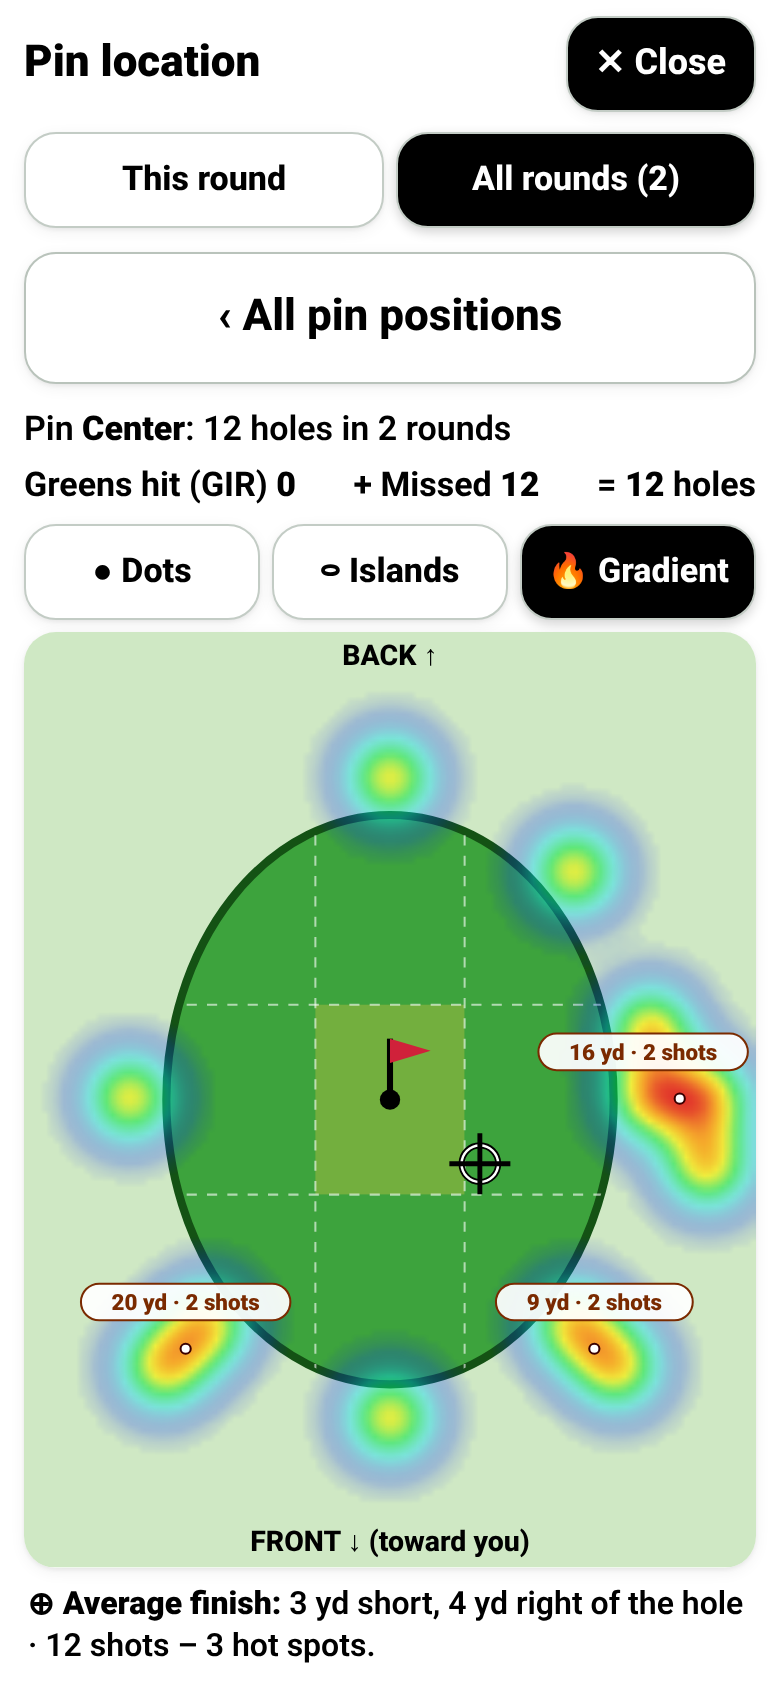
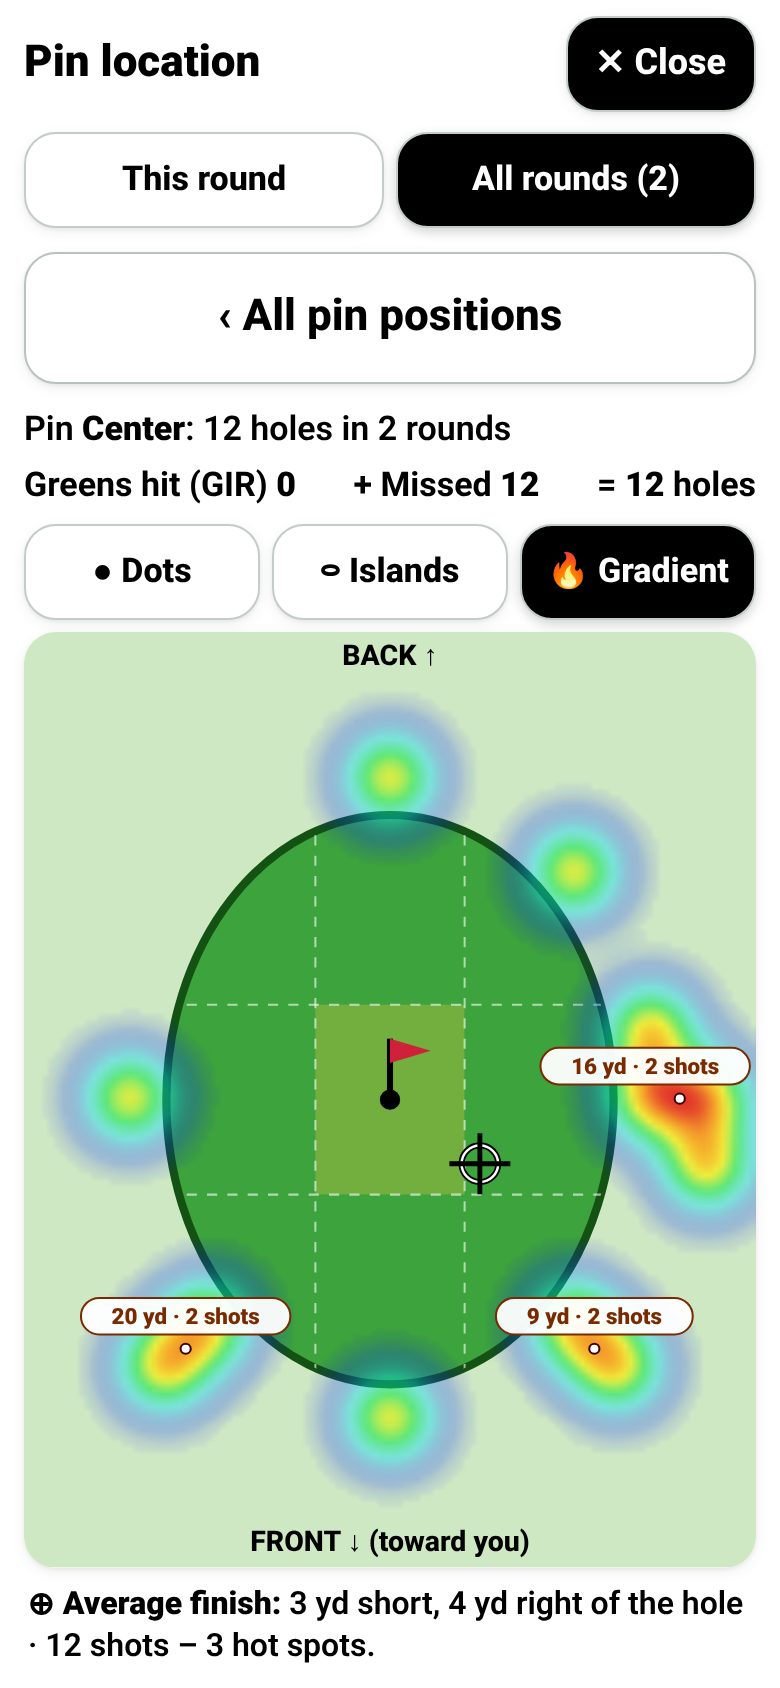
v57: merged island shapes, tag leader lines, Cluster slider

Changed region(s): [[0.6769, 0.5853, 0.9846, 0.6469], [0.0923, 0.7393, 0.3692, 0.8009], [0.6154, 0.7393, 0.8923, 0.8009]]

diff --git a/app.js b/app.js
@@ -1163,9 +1163,11 @@
       p.rx = L ? d * dx / L : 0; p.ry = L ? d * dy / L : 0; p.big = !yd && p.u === 'yd'; });
     return yd;
   }
-  function heatIslandsReal(pts, yd) {
+  function heatClus() { var v = +(view.clus || localStorage.getItem('golfsg.heatclus.v1') || 3); return Math.max(1, Math.min(10, v || 3)); }
+  function heatIslandsReal(pts, yd, L) {
+    L = L || 3;
     var id = pts.map(function (_, i) { return i; }), find = function (i) { while (id[i] !== i) i = id[i] = id[id[i]]; return i; };
-    var link = function (a, b) { return yd ? 3 : (a.big || b.big ? 9 : 3); }, gap = yd ? 2 : 2;
+    var link = function (a, b) { return yd ? L : (a.big || b.big ? 3 * L : L); }, gap = L * 2 / 3;
     for (var i = 0; i < pts.length; i++) for (var j = i + 1; j < pts.length; j++) if (Math.hypot(pts[i].rx - pts[j].rx, pts[i].ry - pts[j].ry) <= link(pts[i], pts[j])) id[find(i)] = find(j);
     var groups = {}; pts.forEach(function (p, i) { (groups[find(i)] = groups[find(i)] || []).push(p); });
     var G = Object.keys(groups).map(function (k) { return groups[k]; });
@@ -1185,13 +1187,13 @@
     for (var k = 1; k < n; k++) { var bi = -1; for (var i = 0; i < n; i++) if (!used[i] && (bi < 0 || best[i][0] < best[bi][0])) bi = i;
       used[bi] = true; edges.push([best[bi][1], bi]); for (var j = 0; j < n; j++) if (!used[j]) { var d = Math.hypot(g[j].x - g[bi].x, g[j].y - g[bi].y); if (d < best[j][0]) best[j] = [d, bi]; } }
     var path = g.map(function (p) { return 'M' + f1(p.x) + ' ' + f1(p.y) + 'h0.01'; }).join('') + edges.map(function (e) { return 'M' + f1(g[e[0]].x) + ' ' + f1(g[e[0]].y) + 'L' + f1(g[e[1]].x) + ' ' + f1(g[e[1]].y); }).join('');
-    return '<path class="hedge" d="' + path + '" fill="transparent" stroke="#3a0000" stroke-width="' + f1(2 * R + 2.4) + '" stroke-linecap="round" stroke-linejoin="round"/>' +
-      '<path class="hfill" d="' + path + '" fill="transparent" stroke="' + col + '" stroke-width="' + f1(2 * R) + '" stroke-linecap="round" stroke-linejoin="round"/>';
+    return '<g filter="url(#hgoo)"><path class="hedge" d="' + path + '" fill="transparent" stroke="#3a0000" stroke-width="' + f1(2 * R + 3) + '" stroke-linecap="round" stroke-linejoin="round"/></g>' +
+      '<g filter="url(#hgoo)"><path class="hfill" d="' + path + '" fill="transparent" stroke="' + col + '" stroke-width="' + f1(2 * R) + '" stroke-linecap="round" stroke-linejoin="round"/></g>';
   }
   // Continuous density (Gaussian kernel, sigma 13 px) painted to a canvas and embedded as an image: clear where
   // there are no shots, light -> dark red with density. Hot-spot tags at local density peaks (>= 30% of the max).
-  function heatGradient(svg, pts) {
-    var vb = svg.viewBox.baseVal, W = vb.width, H = vb.height, S = 3, gw = Math.ceil(W / S), gh = Math.ceil(H / S), sig = 16, D = new Float32Array(gw * gh), mx = 0;
+  function heatGradient(svg, pts, CL) {
+    var vb = svg.viewBox.baseVal, W = vb.width, H = vb.height, S = 3, gw = Math.ceil(W / S), gh = Math.ceil(H / S), sig = 6 + 3.4 * (CL || 3), D = new Float32Array(gw * gh), mx = 0;
     for (var y = 0; y < gh; y++) for (var x = 0; x < gw; x++) { var v = 0, px = x * S + S / 2, py = y * S + S / 2;
       for (var i = 0; i < pts.length; i++) { var dx = px - pts[i].x, dy = py - pts[i].y, q = dx * dx + dy * dy; if (q < 9 * sig * sig) v += Math.exp(-q / (2 * sig * sig)); }
       D[y * gw + x] = v; if (v > mx) mx = v; }
@@ -1210,12 +1212,23 @@
     peaks.sort(function (a, b) { return b[2] - a[2]; }); peaks = peaks.slice(0, 6);
     var boxes = [], n = 0;
     peaks.forEach(function (p) { var near = pts.filter(function (q) { return Math.hypot(q.x - p[0], q.y - p[1]) <= 2 * sig; }); if (near.length < 2) return; n++;
-      var t = heatFmt(near) + ' · ' + near.length + ' shots', w = t.length * 6.2 + 10, x0 = Math.max(4, Math.min(W - 4 - w, p[0] - w / 2)), y0 = p[1] - 32;
-      for (var k2 = 0; k2 < 6 && boxes.some(function (b) { return x0 < b[2] && x0 + w > b[0] && y0 < b[3] && y0 + 18 > b[1]; }); k2++) y0 += 22;
-      if (y0 < 4) y0 = p[1] + 14; boxes.push([x0, y0, x0 + w, y0 + 18]);
-      o += '<g class="hotspot" data-n="' + near.length + '"><circle cx="' + f1(p[0]) + '" cy="' + f1(p[1]) + '" r="2.5" fill="#fff" stroke="#3a0000"/><rect x="' + f1(x0) + '" y="' + f1(y0) + '" width="' + f1(w) + '" height="18" rx="9" fill="#fff" fill-opacity=".93" stroke="#7a2a00"/>' +
-        '<text x="' + f1(x0 + w / 2) + '" y="' + f1(y0 + 13) + '" text-anchor="middle" font-size="11" font-weight="900" fill="#7a2a00">' + esc(t) + '</text></g>'; });
+      o += heatTag('hotspot', near.length, p[0], p[1], heatFmt(near) + ' · ' + near.length + ' shots', boxes, W, H); });
     return { svg: o, peaks: n };
+  }
+  // Tag placement: try spots around the anchor (nearest first); never over another tag; if the tag ends up
+  // away from its anchor, a thin leader line joins them.
+  function heatTag(cls, n, ax, ay, t, boxes, W, H) {
+    var w = t.length * 6.2 + 10, hh = 18, c = [], best = null;
+    [0, 1, 2, 3, 4].forEach(function (ring) { var d = 16 + ring * 22;
+      [[0, -1], [0, 1], [1, 0], [-1, 0], [1, -1], [-1, -1], [1, 1], [-1, 1]].forEach(function (v) { c.push([ax + v[0] * (d + (v[0] ? w / 2 : 0)) - w / 2, ay + v[1] * d - hh / 2]); }); });
+    for (var i = 0; i < c.length; i++) { var x = Math.max(3, Math.min(W - 3 - w, c[i][0])), y = Math.max(3, Math.min(H - 3 - hh, c[i][1]));
+      if (!boxes.some(function (b) { return x < b[2] + 2 && x + w > b[0] - 2 && y < b[3] + 2 && y + hh > b[1] - 2; })) { best = [x, y]; break; } }
+    if (!best) best = [Math.max(3, Math.min(W - 3 - w, ax - w / 2)), Math.max(3, ay - 30)];
+    var x0 = best[0], y0 = best[1]; boxes.push([x0, y0, x0 + w, y0 + hh]);
+    var nx = Math.max(x0, Math.min(x0 + w, ax)), ny = Math.max(y0, Math.min(y0 + hh, ay)), far = Math.hypot(nx - ax, ny - ay) > 18;
+    return '<g class="' + cls + '" data-n="' + n + '"' + (far ? ' data-leader="1"' : '') + '>' + (far ? '<line class="leader" x1="' + f1(ax) + '" y1="' + f1(ay) + '" x2="' + f1(nx) + '" y2="' + f1(ny) + '" stroke="#3a0000" stroke-width="1.2"/>' : '') +
+      '<circle cx="' + f1(ax) + '" cy="' + f1(ay) + '" r="2.5" fill="#fff" stroke="#3a0000"/><rect x="' + f1(x0) + '" y="' + f1(y0) + '" width="' + f1(w) + '" height="' + hh + '" rx="9" fill="#fff" fill-opacity=".95" stroke="#7a2a00"/>' +
+      '<text x="' + f1(x0 + w / 2) + '" y="' + f1(y0 + 13) + '" text-anchor="middle" font-size="11" font-weight="900" fill="#7a2a00">' + esc(t) + '</text></g>';
   }
   function heatIslands(pts, link) {
     var id = pts.map(function (_, i) { return i; }), find = function (i) { while (id[i] !== i) i = id[i] = id[id[i]]; return i; };
@@ -1240,28 +1253,30 @@
     tg.innerHTML = [['dots', '● Dots'], ['isl', '⬭ Islands'], ['grad', '🔥 Gradient']].map(function (b) { return '<button data-act="heat" data-v="' + b[0] + '" class="' + (mode === b[0] ? 'sel' : '') + '" aria-pressed="' + (mode === b[0]) + '"' + (pts.length || b[0] === 'dots' ? '' : ' disabled') + '>' + b[1] + '</button>'; }).join('');
     var anc = svg; while (anc.parentNode && anc.parentNode !== mv) anc = anc.parentNode;
     anc.parentNode.insertBefore(tg, anc);
+    if (on && pts.length) { var sl = document.createElement('div'); sl.className = 'heatclus'; sl.id = 'heatclus';
+      var CL = heatClus(), U0 = pts.every(function (p) { return p.u === 'yd'; }) ? 'yd' : 'ft';
+      sl.innerHTML = '<label for="clusr"><b>Cluster</b> <span>tight</span></label><input type="range" id="clusr" min="1" max="10" step="1" value="' + CL + '" aria-label="Cluster distance"><span>loose</span> <b id="clusv">' + CL + ' ' + U0 + '</b>';
+      anc.parentNode.insertBefore(sl, anc.nextSibling); }
     if (!on || !pts.length) return;
     svg.classList.add('heat');
-    var h = '';
+    var h = '<defs><filter id="hgoo" x="-30%" y="-30%" width="160%" height="160%"><feGaussianBlur in="SourceGraphic" stdDeviation="4.5" result="b"/><feColorMatrix in="b" mode="matrix" values="1 0 0 0 0  0 1 0 0 0  0 0 1 0 0  0 0 0 22 -9"/></filter></defs>';
     // blobs are drawn per island below (after islands are known)
-    var isl = heatIslandsReal(pts, heatReal(pts, C)), boxes = [], lone = 0, tagged = 0;
-    if (mode === 'grad') { var GR = heatGradient(svg, pts); h += GR.svg; isl = []; tagged = GR.peaks; }
+    var VW = svg.viewBox.baseVal.width, VH = svg.viewBox.baseVal.height, CL = heatClus();
+    var isl = heatIslandsReal(pts, heatReal(pts, C), CL), boxes = [], lone = 0, tagged = 0;
+    if (mode === 'grad') { var GR = heatGradient(svg, pts, CL); h += GR.svg; isl = []; tagged = GR.peaks; }
     else {
     // one red ramp, light -> dark by the island's share of all shots; crisp thin border around each island (union of discs)
     var ramp = function (t) { var a = [253, 224, 218], b = [139, 0, 0]; return 'rgb(' + a.map(function (v, i) { return Math.round(v + (b[i] - v) * t); }).join(',') + ')'; };
     var maxShare = Math.max.apply(null, isl.map(function (g) { return g.length; })) / pts.length;
     isl.forEach(function (g) { var share = g.length / pts.length, t = maxShare > 0 ? Math.min(1, 0.15 + 0.85 * share / maxShare) : 1, col = ramp(t);
       h += '<g class="hisland" data-n="' + g.length + '" data-share="' + share.toFixed(3) + '" data-col="' + col + '">' +
-        islandShape(g, col) + g.map(function (p) { return '<circle class="hblob" cx="' + f1(p.x) + '" cy="' + f1(p.y) + '" r="1.6" fill="#3a0000" fill-opacity=".55"/>'; }).join('') + '</g>'; });
+        islandShape(g, col) + g.map(function (p) { return '<circle class="hblob" cx="' + f1(p.x) + '" cy="' + f1(p.y) + '" r="1.6" fill="#3a0000" fill-opacity="0"/>'; }).join('') + '</g>'; });
     lone = isl.filter(function (g) { return g.length === 1; }).length; tagged = isl.length - lone;
     isl.forEach(function (g, i) {
       if (g.length === 1 && tagged) { h += '<g class="island lone" data-n="1"></g>'; return; }
-      var mx = g.reduce(function (a, p) { return a + p.x; }, 0) / g.length, top = g.reduce(function (a, p) { return a + p.y; }, 0) / g.length + 8;
-      var t = heatFmt(g) + ' · ' + g.length + (g.length === 1 ? ' shot' : ' shots'), w = t.length * 6.2 + 10, x = Math.max(4, Math.min(356 - w, mx - w / 2)), y = top - 34;
-      for (var k = 0; k < 6 && boxes.some(function (b) { return x < b[2] && x + w > b[0] && y < b[3] && y + 18 > b[1]; }); k++) y += 22;
-      if (y < 4) y = top + 28; boxes.push([x, y, x + w, y + 18]);
-      h += '<g class="island" data-n="' + g.length + '"><rect x="' + f1(x) + '" y="' + f1(y) + '" width="' + f1(w) + '" height="18" rx="9" fill="#fff" fill-opacity=".93" stroke="#7a2a00"/>' +
-        '<text x="' + f1(x + w / 2) + '" y="' + f1(y + 13) + '" text-anchor="middle" font-size="11" font-weight="900" fill="#7a2a00">' + esc(t) + '</text></g>';
+      var mx = g.reduce(function (a, p) { return a + p.x; }, 0) / g.length, my = g.reduce(function (a, p) { return a + p.y; }, 0) / g.length;
+      var cp = g.reduce(function (b, p) { return Math.hypot(p.x - mx, p.y - my) < Math.hypot(b.x - mx, b.y - my) ? p : b; }, g[0]); // anchor on a real shot of the island
+      h += heatTag('island', g.length, cp.x, cp.y, heatFmt(g) + ' · ' + g.length + (g.length === 1 ? ' shot' : ' shots'), boxes, VW, VH);
     });
     }
     // average finish (all plotted shots): pixel mean for the marker, real distances for the words
@@ -1410,9 +1425,9 @@
   }
   function applyCompare() {
     var ov = document.getElementById('cmpovmap'), src = document.getElementById('cmpbestsrc'); if (!ov || !src) return;
-    var kind = ov.getAttribute('data-kind'), C = heatCenter(ov, kind), wp = cmpPoints(ov), bp = cmpPoints(src), h = '';
+    var kind = ov.getAttribute('data-kind'), C = heatCenter(ov, kind), wp = cmpPoints(ov), bp = cmpPoints(src), h = '<defs><filter id="hgoo" x="-30%" y="-30%" width="160%" height="160%"><feGaussianBlur in="SourceGraphic" stdDeviation="4.5" result="b"/><feColorMatrix in="b" mode="matrix" values="1 0 0 0 0  0 1 0 0 0  0 0 1 0 0  0 0 0 22 -9"/></filter></defs>';
     ov.classList.add('heat');
-    if (wp.length) { var isl = heatIslandsReal(wp, heatReal(wp, C)), mx = Math.max.apply(null, isl.map(function (g) { return g.length; }));
+    if (wp.length) { var isl = heatIslandsReal(wp, heatReal(wp, C), heatClus()), mx = Math.max.apply(null, isl.map(function (g) { return g.length; }));
       isl.forEach(function (g) { var t = Math.min(1, 0.15 + 0.85 * g.length / mx), a = [253, 224, 218], b = [139, 0, 0], col = 'rgb(' + a.map(function (v, i) { return Math.round(v + (b[i] - v) * t); }).join(',') + ')';
         h += '<g class="hisland" data-n="' + g.length + '" opacity=".6">' + islandShape(g, col) + '</g>'; }); }
     bp.forEach(function (p) { h += '<circle class="bestring" cx="' + f1(p.x) + '" cy="' + f1(p.y) + '" r="8" fill="none" stroke="#000" stroke-width="2.6"/>'; });
@@ -2107,6 +2122,12 @@
     else if (f === 'layup') { if (t.checked) row.layup = true; else delete row.layup; save(); refreshInfo(h); }
   });
 
+  document.addEventListener('input', function (ev) {
+    if (!ev.target || ev.target.id !== 'clusr') return;
+    view.clus = +ev.target.value; try { localStorage.setItem('golfsg.heatclus.v1', String(view.clus)); } catch (e) {}
+    var mv = document.getElementById('mapview'), st = mv ? mv.scrollTop : 0; render();
+    var mv2 = document.getElementById('mapview'); if (mv2) mv2.scrollTop = st; var r2 = document.getElementById('clusr'); if (r2) r2.focus();
+  });
   // Distance typing: update data without re-rendering (keeps the keyboard up)
   document.addEventListener('input', function (ev) {
     var t = ev.target; if (!t.hasAttribute || !t.hasAttribute('data-row')) return;

diff --git a/tests/heat-focused.js b/tests/heat-focused.js
@@ -43,7 +43,20 @@ const BASE = process.env.BASE_URL || 'http://127.0.0.1:8774/', OUT = '/workspace
     assert.ok(await page.$('#heatnote .ramp'), 'ramp legend');
     assert.ok(st.avg && /Average (finish|putt start)/.test(st.sum), m + ' centroid');
     console.log(m, st.blobs, 'shots', st.isl.length, 'islands', st.sum);
-    await page.locator('#heattog').scrollIntoViewIfNeeded(); await page.screenshot({ path: OUT + 'heatmap-' + m + '.png' });
+    await page.locator('#heattog').scrollIntoViewIfNeeded(); await page.screenshot({ path: OUT + 'heatmap-islands-' + m + '.png' });
+    // tags never overlap
+    const bx = await page.$$eval('#mapview .island rect, #mapview .hotspot rect', r => r.map(e => [+e.getAttribute('x'), +e.getAttribute('y'), +e.getAttribute('width'), +e.getAttribute('height')]));
+    bx.forEach((a, i) => bx.forEach((b, j) => { if (i < j) assert.ok(!(a[0] < b[0] + b[2] && a[0] + a[2] > b[0] && a[1] < b[1] + b[3] && a[1] + a[3] > b[1]), m + ' tags overlap'); }));
+    // cluster slider: looser -> fewer (or equal) islands; remembered
+    if (m === 'putt') {
+      const cnt = () => page.$$eval('#mapview .hisland', g => g.length);
+      const n3 = await cnt(); await page.$eval('#clusr', e => { e.value = '8'; e.dispatchEvent(new Event('input', { bubbles: true })); });
+      const n8 = await cnt(); assert.ok(n8 < n3, 'looser slider merges islands ' + n3 + ' -> ' + n8);
+      assert.strictEqual(await page.evaluate(() => localStorage.getItem('golfsg.heatclus.v1')), '8'); assert.match(await page.textContent('#clusv'), /^8 ft/);
+      await page.locator('#heattog').scrollIntoViewIfNeeded(); await page.screenshot({ path: OUT + 'heatmap-islands-putt-loose.png' });
+      await page.click('[data-act="heat"][data-v="grad"]'); await page.screenshot({ path: OUT + 'heatmap-gradient-putt-loose.png' });
+      await page.$eval('#clusr', e => { e.value = '3'; e.dispatchEvent(new Event('input', { bubbles: true })); }); await page.click('[data-act="heat"][data-v="isl"]');
+    }
     await page.click('[data-act="heat"][data-v="dots"]'); assert.strictEqual(await page.$('#mapview svg.heat'), null, m + ' toggles back to dots');
     if (m === 'gir') { await page.locator('#heattog').scrollIntoViewIfNeeded(); await page.screenshot({ path: OUT + 'heatmap-gir-dots.png' }); }
     await page.click('[data-act="heat"][data-v="isl"]'); assert.ok(await page.$('#mapview svg.heat'));

diff --git a/styles.css b/styles.css
@@ -385,3 +385,6 @@ svg.heat path[fill="none"] { opacity: .12; }
 .gaptable td.gap { font-size: 16px; }
 #cmplegend .ramp, .heatnote .ramp { display: inline-block; width: 60px; height: 12px; border-radius: 6px; vertical-align: middle; border: 1px solid #3a0000; background: linear-gradient(90deg, rgb(253,224,218), rgb(139,0,0)); }
 .heatnote .ramp.rainbow { border-color: #333; background: linear-gradient(90deg, rgba(0,0,255,.5), #00dcff, #00e63c, #fff000, #ff8c00, #e60000); }
+.heatclus { display: flex; align-items: center; gap: 8px; margin: 8px 2px; font-size: 14px; }
+.heatclus label { display: flex; gap: 6px; align-items: center; }
+.heatclus input[type=range] { flex: 1; min-height: 44px; accent-color: #8b0000; }

diff --git a/sw.js b/sw.js
@@ -1,5 +1,5 @@
 // Offline support: cache the whole app on install, serve cache-first.
-const CACHE = 'golf-sg-v56';
+const CACHE = 'golf-sg-v57';
 const ASSETS = ['./', './index.html', './styles.css', './sg.js', './app.js', './config.js', './onedrive.js', './vendor/msal-browser.min.js', './vendor/jspdf.umd.min.js',
   './manifest.webmanifest', './icons/apple-touch-icon.png', './icons/icon-192.png',
   './icons/icon-512.png', './icons/icon-512-maskable.png'];
